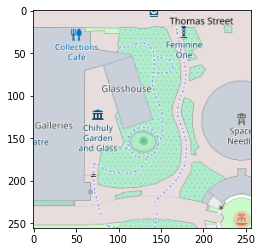
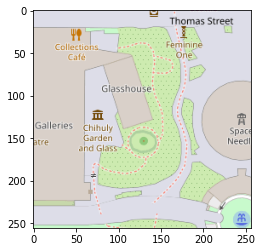
.

diff --git a/README.md b/README.md
@@ -9,7 +9,6 @@ import numpy as np
 import os
 import pyproj
 import requests
-import threading
 from matplotlib import pyplot as plt
 from osgeo import gdal, ogr, osr
 
@@ -101,13 +100,14 @@ image = cv2.imread(tempfile)
 # Now that it is a numpy array, delete the temp file
 os.remove(tempfile)
 
-plt.imshow(image)
+# Show tile image in RGB
+plt.imshow(cv2.cvtColor(image, cv2.COLOR_BGR2RGB))
 ```
 
 
 
 
-    <matplotlib.image.AxesImage at 0x17b46f9b100>
+    <matplotlib.image.AxesImage at 0x1f17129dae0>
 
 
 
@@ -157,13 +157,14 @@ master_image = cv2.hconcat(horizontal_concat)
 # Make matplotlib chart bigger 
 plt.rcParams['figure.figsize'] = [10, 10]
 
-plt.imshow(master_image)
+# Show master tile image in RGB
+plt.imshow(cv2.cvtColor(master_image, cv2.COLOR_BGR2RGB))
 ```
 
 
 
 
-    <matplotlib.image.AxesImage at 0x17b46b4ad70>
+    <matplotlib.image.AxesImage at 0x1f17435afb0>
 
 
 
@@ -209,31 +210,31 @@ ground_control_pts
 
 
 
-    [<osgeo.gdal.GCP; proxy of <Swig Object of type 'GDAL_GCP *' at 0x0000017B46B79FE0> >,
-     <osgeo.gdal.GCP; proxy of <Swig Object of type 'GDAL_GCP *' at 0x0000017B46B7BF00> >,
-     <osgeo.gdal.GCP; proxy of <Swig Object of type 'GDAL_GCP *' at 0x0000017B46B7BF30> >,
-     <osgeo.gdal.GCP; proxy of <Swig Object of type 'GDAL_GCP *' at 0x0000017B46B79170> >,
-     <osgeo.gdal.GCP; proxy of <Swig Object of type 'GDAL_GCP *' at 0x0000017B46B79C20> >,
-     <osgeo.gdal.GCP; proxy of <Swig Object of type 'GDAL_GCP *' at 0x0000017B46FCB8A0> >,
-     <osgeo.gdal.GCP; proxy of <Swig Object of type 'GDAL_GCP *' at 0x0000017B46B11F80> >,
-     <osgeo.gdal.GCP; proxy of <Swig Object of type 'GDAL_GCP *' at 0x0000017B470A1980> >,
-     <osgeo.gdal.GCP; proxy of <Swig Object of type 'GDAL_GCP *' at 0x0000017B46B94360> >,
-     <osgeo.gdal.GCP; proxy of <Swig Object of type 'GDAL_GCP *' at 0x0000017B46B943F0> >,
-     <osgeo.gdal.GCP; proxy of <Swig Object of type 'GDAL_GCP *' at 0x0000017B46B94480> >,
-     <osgeo.gdal.GCP; proxy of <Swig Object of type 'GDAL_GCP *' at 0x0000017B46B94510> >,
-     <osgeo.gdal.GCP; proxy of <Swig Object of type 'GDAL_GCP *' at 0x0000017B46B945A0> >,
-     <osgeo.gdal.GCP; proxy of <Swig Object of type 'GDAL_GCP *' at 0x0000017B46B94630> >,
-     <osgeo.gdal.GCP; proxy of <Swig Object of type 'GDAL_GCP *' at 0x0000017B46B946C0> >,
-     <osgeo.gdal.GCP; proxy of <Swig Object of type 'GDAL_GCP *' at 0x0000017B46B94750> >,
-     <osgeo.gdal.GCP; proxy of <Swig Object of type 'GDAL_GCP *' at 0x0000017B46B94900> >,
-     <osgeo.gdal.GCP; proxy of <Swig Object of type 'GDAL_GCP *' at 0x0000017B46B94990> >,
-     <osgeo.gdal.GCP; proxy of <Swig Object of type 'GDAL_GCP *' at 0x0000017B46B94A20> >,
-     <osgeo.gdal.GCP; proxy of <Swig Object of type 'GDAL_GCP *' at 0x0000017B46B94AB0> >,
-     <osgeo.gdal.GCP; proxy of <Swig Object of type 'GDAL_GCP *' at 0x0000017B46B94B40> >,
-     <osgeo.gdal.GCP; proxy of <Swig Object of type 'GDAL_GCP *' at 0x0000017B46B94BD0> >,
-     <osgeo.gdal.GCP; proxy of <Swig Object of type 'GDAL_GCP *' at 0x0000017B46B94C60> >,
-     <osgeo.gdal.GCP; proxy of <Swig Object of type 'GDAL_GCP *' at 0x0000017B46B964C0> >,
-     <osgeo.gdal.GCP; proxy of <Swig Object of type 'GDAL_GCP *' at 0x0000017B46B96430> >]
+    [<osgeo.gdal.GCP; proxy of <Swig Object of type 'GDAL_GCP *' at 0x000001F17433AD30> >,
+     <osgeo.gdal.GCP; proxy of <Swig Object of type 'GDAL_GCP *' at 0x000001F1743B75A0> >,
+     <osgeo.gdal.GCP; proxy of <Swig Object of type 'GDAL_GCP *' at 0x000001F1743B6910> >,
+     <osgeo.gdal.GCP; proxy of <Swig Object of type 'GDAL_GCP *' at 0x000001F1743B47E0> >,
+     <osgeo.gdal.GCP; proxy of <Swig Object of type 'GDAL_GCP *' at 0x000001F1743B4870> >,
+     <osgeo.gdal.GCP; proxy of <Swig Object of type 'GDAL_GCP *' at 0x000001F1743B4A20> >,
+     <osgeo.gdal.GCP; proxy of <Swig Object of type 'GDAL_GCP *' at 0x000001F1743B58C0> >,
+     <osgeo.gdal.GCP; proxy of <Swig Object of type 'GDAL_GCP *' at 0x000001F1743B5950> >,
+     <osgeo.gdal.GCP; proxy of <Swig Object of type 'GDAL_GCP *' at 0x000001F1743B59E0> >,
+     <osgeo.gdal.GCP; proxy of <Swig Object of type 'GDAL_GCP *' at 0x000001F1743B5A70> >,
+     <osgeo.gdal.GCP; proxy of <Swig Object of type 'GDAL_GCP *' at 0x000001F1743B5B00> >,
+     <osgeo.gdal.GCP; proxy of <Swig Object of type 'GDAL_GCP *' at 0x000001F1743B5B90> >,
+     <osgeo.gdal.GCP; proxy of <Swig Object of type 'GDAL_GCP *' at 0x000001F1743B5C20> >,
+     <osgeo.gdal.GCP; proxy of <Swig Object of type 'GDAL_GCP *' at 0x000001F1743B5CB0> >,
+     <osgeo.gdal.GCP; proxy of <Swig Object of type 'GDAL_GCP *' at 0x000001F1743B6FA0> >,
+     <osgeo.gdal.GCP; proxy of <Swig Object of type 'GDAL_GCP *' at 0x000001F1743B6F10> >,
+     <osgeo.gdal.GCP; proxy of <Swig Object of type 'GDAL_GCP *' at 0x000001F1743B6E80> >,
+     <osgeo.gdal.GCP; proxy of <Swig Object of type 'GDAL_GCP *' at 0x000001F1743B6DF0> >,
+     <osgeo.gdal.GCP; proxy of <Swig Object of type 'GDAL_GCP *' at 0x000001F1743B6D60> >,
+     <osgeo.gdal.GCP; proxy of <Swig Object of type 'GDAL_GCP *' at 0x000001F1743B6CD0> >,
+     <osgeo.gdal.GCP; proxy of <Swig Object of type 'GDAL_GCP *' at 0x000001F1743B6C40> >,
+     <osgeo.gdal.GCP; proxy of <Swig Object of type 'GDAL_GCP *' at 0x000001F1743B6BB0> >,
+     <osgeo.gdal.GCP; proxy of <Swig Object of type 'GDAL_GCP *' at 0x000001F1743B6B20> >,
+     <osgeo.gdal.GCP; proxy of <Swig Object of type 'GDAL_GCP *' at 0x000001F1743B6A90> >,
+     <osgeo.gdal.GCP; proxy of <Swig Object of type 'GDAL_GCP *' at 0x000001F1743B6A00> >]
 
 
 
@@ -249,6 +250,7 @@ dataset = gdal.GetDriverByName('MEM').Create('', master_image.shape[1], master_i
 # When using a numpy array the interleave needs to be 'pixel'
 # If using a numpy array from OpenCV, the bands list needs to be reversed because OpenCV is BGR (blue-green-red)
 # instead of normal RGB (red-green-blue)
+# Or conversely you can convert the master image to RGB using OpenCV and have the bands list in normal order [1, 2, 3] 
 dataset.WriteArray(master_image, interleave='pixel', band_list=[3, 2, 1])
 
 # Create a Spatial Reference and import it from the WGS84 EPSG number
